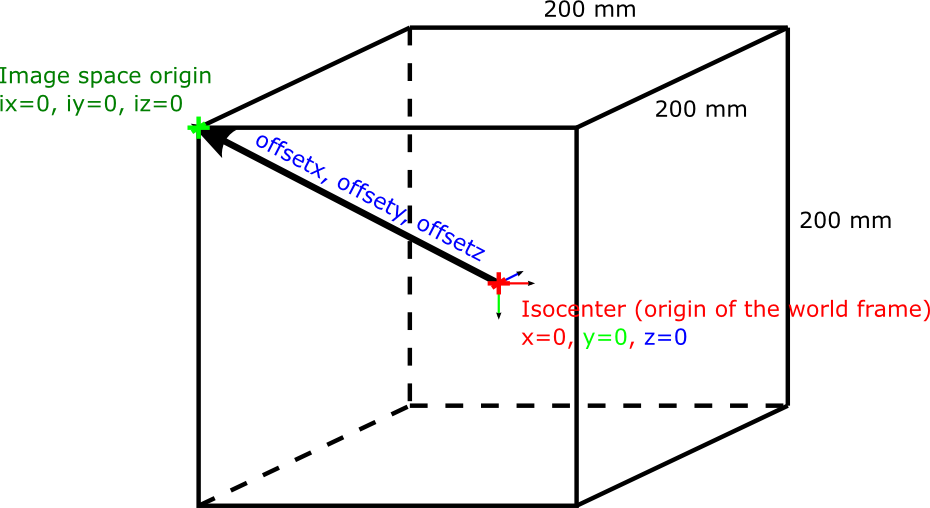
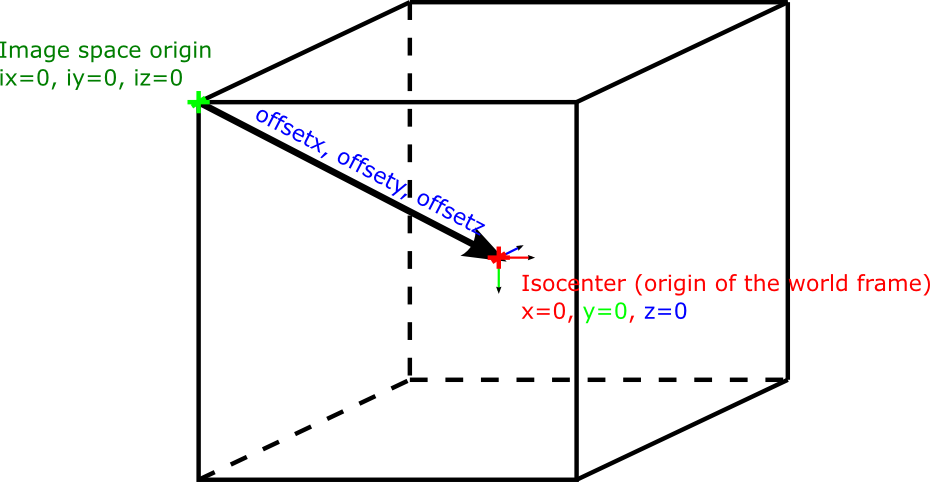
Update doc, minor changes

diff --git a/doc/source/phantoms.rst b/doc/source/phantoms.rst
@@ -3,7 +3,7 @@
 Phantoms
 ========
 
-Two main phantoms are used in GGEMS. Each one handle different particle navigation dedicated to a specific application. For instance a phantom *VoxPhanImgNav* is used for CT imaging while a phantom *VoxPhanDosiNav* is used in radiotherapy application. 
+Two main phantoms are used in GGEMS. Each one handle different particle navigation dedicated to a specific application. For instance a phantom *VoxPhanImgNav* is used for CT imaging while a phantom *VoxPhanDosiNav* is used for radiotherapy application. 
 
 +----------------+---------------------+---------------------+---------------------+-----------------+
 | Phantom name   | Type of volume      | Particle navigator  | Specificity         | Applications    |
@@ -26,7 +26,7 @@ This class handle particle navigation within a voxelized volume. This phantom co
 
 .. c:function:: void load_phantom_from_mhd ( std::string filename, std::string range_mat_name )
     
-    Load a voxelized phantom from a MHD format image (``TODO: MHD spec``). This file can content Hounsfield units (HU) or simple material ID. To convert material ID or HU into material a range material file is required. This file contains for each range of value (ID or HU) the material to be associated. Material name must be defined into the material database (``TODO: see GGEMS``).
+    Load a voxelized phantom from a MHD format image ( :ref:`mhd-label` ). This file can content Hounsfield units (HU) or simple material ID. To convert material ID or HU into material a range material file is required. This file contains for each range of value (ID or HU) the material to be associated. Material name must be defined into the material database (``TODO: see GGEMS``).
 
     .. c:var:: filename  
         
@@ -61,8 +61,143 @@ Example of material database contains ::
 
 -----
 
+Example
+^^^^^^^
+
+.. code-block:: cpp
+    :linenos:
+
+    VoxPhanImgNav *aPhantom = new VoxPhanImgNav;
+    aPhantom->load_phantom_from_mhd( "data/patient.mhd", "data/HU2mat.dat" );
+    aPhantom->load_materials( "data/materials.dat" );
+
+
+
+VoxPhanDosiNav
+--------------
+
+.. sectionauthor:: Julien Bert
+.. codeauthor:: Julien Bert
+
+This class handle particle navigation within a voxelized volume. This phantom consider photon and electron particles and the dose within the volume is recorded. This phantom and the associated particle navigator is mainly used for dosimetry application (photon or electron beam).
+
+------------
+
+.. c:function:: void load_phantom_from_mhd ( std::string filename, std::string range_mat_name )
+    
+    Load a voxelized phantom from a MHD format image ( :ref:`mhd-label` ). This file can content Hounsfield units (HU) or simple material ID. To convert material ID or HU into material a range material file is required. This file contains for each range of value (ID or HU) the material to be associated. Material name must be defined into the material database (``TODO: see GGEMS``).
+
+    .. c:var:: filename  
+        
+        Filename of the mhd data file.
+
+    .. c:var:: range_mat_name 
+    
+        Filename of the range material data file. 
+
+Example of range material contains::
+
+    0   100 Water
+    101 200 Air
+    201 220 RibBone    
+
+-----
+
+.. c:function:: void set_materials( std::string filename )
+
+    Load the material database used by the range material data file and the phantom.
+
+    .. c:var:: filename
+
+        Filename of the material database. 
+
+Example of material database contains ::
+
+    # Water    
+    Water: d=1.00 g/cm3; n=2;
+        +el: name=Hydrogen  ; f=0.111
+        +el: name=Oxygen    ; f=0.889
+
+-----
+
+.. c:function:: void set_doxel_size( f32 sizex, f32 sizey, f32 sizez )
+
+    Set the voxel size of the dose map. If no values are specified doxel size is the same
+        to the phantom voxel size.
+
+    .. c:var:: sizex
+
+        Size (in mm) of the doxel along x-axis dimension. 
+
+    .. c:var:: sizey
+
+        Size (in mm) of the doxel along y-axis dimension. 
+
+    .. c:var:: sizez
+
+        Size (in mm) of the doxel along z-axis dimension.         
+
+-----
+
+.. c:function:: void set_volume_of_interest( f32 xmin, f32 xmax, f32 ymin, f32 ymax, f32 zmin, f32 zmax )
+
+    Set a volume of interest (VOI) to record the dose within the phantom. This volume is defined according the phantom offset i.e. center of the world frame. If no values are specified the volume of interest is defined to consider the whole phantom volume. 
+
+    .. c:var:: xmin
+
+        Min position of VOI boundaries along x-axis of the volume of interest. 
+
+    .. c:var:: xmax
+
+        Max position of VOI boundaries along x-axis of the volume of interest. 
+
+    .. c:var:: ymin
+
+        Min position of VOI boundaries along y-axis of the volume of interest. 
+
+    .. c:var:: ymax
+
+        Max position of VOI boundaries along y-axis of the volume of interest. 
+
+    .. c:var:: zmin
+
+        Min position of VOI boundaries along z-axis of the volume of interest. 
+
+    .. c:var:: zmax
+
+        Max position of VOI boundaries along z-axis of the volume of interest.                                         
+
 .. note::
-    Version: beta - Work for authors.
+    Version: alpha - Never test
+
+-----
+
+.. c:function:: void calculate_dose_to_water()
+
+    After the simulation, energies deposited within the volume are converted in dose using this function. The dose is caculated using water density.
+
+-----
+
+.. c:function:: void calculate_dose_to_phantom()
+
+    After the simulation, energies deposited within the volume are converted in dose using this function. The dose is caculated using density of each voxel phantom.
+
+-----
+
+.. c:function:: void write ( std::string filename = "dosimetry.mhd" )
+
+    After dose calculation dosemap can be exported in MetaImage format ( :ref:`mhd-label` ). This function write four files related to the dosemap:
+
+    * xxx-Dose: final dose map in Gray
+    * xxx-Edep: Deposited energy within the phantom in MeV
+    * xxx-Hit: Number of hits within the phantom
+    * xxx-Uncertainty: Dose uncertainty in %
+
+    .. c:var:: filename
+
+        Base filename used to export data.        
+
+-----
 
 Example
 ^^^^^^^
@@ -73,6 +208,7 @@ Example
     VoxPhanImgNav *aPhantom = new VoxPhanImgNav;
     aPhantom->load_phantom_from_mhd( "data/patient.mhd", "data/HU2mat.dat" );
     aPhantom->load_materials( "data/materials.dat" );
+
 
 
 

diff --git a/doc/source/generality.rst b/doc/source/generality.rst
@@ -16,6 +16,8 @@ In GGEMS the reference frame of the simulation is defined by the isocenter. Ever
 
 -----
 
+.. _mhd-label:
+
 MHD file format
 ---------------
 
@@ -25,13 +27,13 @@ GGEMS uses MHD file format to load phantom and CT image. This file format is com
     NDims = 3
     BinaryData = True
     CompressedData = False
-    Offset = -256.000000 -126.000000 -92.000000
+    Offset = 256.000000 126.000000 92.000000
     ElementSpacing = 4.000000 4.000000 4.000000
     DimSize = 128 63 46
     ElementType = MET_FLOAT
     ElementDataFile = phantom_pet_hu.raw
 
-The offset value is the vector that translate the isocenter (center of the frame) to the reference frame of the voxelized volume i.e. top left corner (voxel index x=0, y=0 and z=0), as shown in this figure:
+GGEMS is able to import data with ElementType defined as: ``MET_FLOAT, MET_UINT, MET_USHORT, MET_UCHAR``. The offset value is the point position that defined the center of the frame. This offset, is then used to translate the phantom accordingly, as shown to the figure:
 
 .. image:: images/image_offset.png
     :scale: 75%
@@ -39,16 +41,16 @@ The offset value is the vector that translate the isocenter (center of the frame
 
 For example to center your voxelized volume to the center of the world frame, the offset will be::
 
-    ox = - volume_size_x / 2.0
-    oy = - volume_size_y / 2.0
-    oz = - volume_size_z / 2.0
+    ox = volume_size_x / 2.0
+    oy = volume_size_y / 2.0
+    oz = volume_size_z / 2.0
 
 -----
 
 Simulation structure
 --------------------
 
-The structure of the Monte Carlo simulation is based on three main components: a source, a phantom and a detector. According the application targeted a composition of these components will be used (see figure below). For instance to compute a blank image in CT imaging only a source and a detector will be used (no phantom). In PET and CT imaging a source, a phantom and a detecvtor will be defined. In particle therapy application only a source and a phantom are used. In GGEMS simulation only the source component is mandatory, phantom and detecvtor are optionals.
+The structure of the Monte Carlo simulation is based on three main components: a source, a phantom and a detector. According the application targeted a composition of these components will be used (see figure below). For instance to compute a blank image in CT imaging only a source and a detector will be used (no phantom). In PET and CT imaging a source, a phantom and a detecvtor will be defined. In particle therapy application only a source and a phantom are used. In GGEMS simulation only the source component is mandatory, phantom and detector are optionals.
 
 .. image:: images/simu_struct.png
     :scale: 40%
@@ -252,6 +254,46 @@ Units recognized and used by GGEMS:
 * perCent
 * perThousand
 * perMillion
+
+-----
+
+Data type
+---------
+
+GGEMS used specific data type:
+
+* **f32** real number with simple precision
+* **f32xy** vector (x, y) of f32
+* **f32xyz** vector (x, y, z) of f32
+* **f32xyzw** vector (x, y, z, w) of f32
+|
+* **f64** real number with double precision
+* **f64xy** vector (x, y) of f64
+* **f64xyz** vector (x, y, z) of f64
+* **f64xyzw** vector (x, y, z, w) of f64
+|
+* **i32** signed integer number (32 bits)
+* **i32xy** vector (x, y) of i32
+* **i32xyz** vector (x, y, z) of i32
+* **i32xyzw** vector (x, y, z, w) of i32
+|
+* **ui32** unsigned integer number (32 bits)
+* **ui32xy** vector (x, y) of ui32
+* **ui32xyz** vector (x, y, z) of ui32
+* **ui32xyzw** vector (x, y, z, w) of ui32
+|
+* **ui16** unsigned integer number (16 bits)
+* **ui16xy** vector (x, y) of ui16
+* **ui16xyz** vector (x, y, z) of ui16
+* **ui16xyzw** vector (x, y, z, w) of ui16
+|
+* **i8** signed integer number (8 bits)
+* **i16** signed integer number (16 bits)
+* **ui8** unsigned integer number (8 bits)
+* **ui64** unsigned integer number (64 bits)
+|
+* **f32matrix33** matrix (a, b, c, d, e, f, g, h, i) of f32
+* **f64matrix33** matrix (a, b, c, d, e, f, g, h, i) of f64
 
 -----
 

diff --git a/doc/source/installation.rst b/doc/source/installation.rst
@@ -1,11 +1,61 @@
-.. GGEMS documentation: Installation
+.. GGEMS documentation: Compilation
 
-.. highlight:: c
-    :linenothreshold: 1
+.. sectionauthor:: Julien Bert
+.. codeauthor:: Julien Bert
+
+
+Compilation
+===========
+
+Requirement
+-----------
+
+Software using GGEMS library requires minimum version of gcc and nvcc to be compiled:
+
+GCC
+^^^
+
+GGEMS library requires a **gcc** version **>= 4.8.4**.
+
+NVCC
+^^^^
+
+GGEMS library requires a **nvcc** version **>= 7.0.27**.
+
+Compute capability
+^^^^^^^^^^^^^^^^^^
+
+Your NVIDIA GPU device must have a compute capability **>= 3.0**.
+
+Only Kepler and newest NVIDIA architecture are compatible with GGEMS. Check your architecture to `Wikipedia <http://en.wikipedia.org.wiki/CUDA>`_.
 
 Installation
-============ 
+------------
 
-.. toctree::
-   :maxdepth: 2
+Since GGEMS is a static library, installation procedure is not really required. The main directory that contains GGEMS has to be placed somewhere in your home directory in order to have the right to access.
 
+Compilation
+-----------
+
+Your source code must include the main GGEMS file:
+
+.. code-block:: cpp
+    :linenos:
+
+    #include <ggems.cuh>
+
+Then in a linux terminal, you need to source GGEMS path in order to tell your compilation where is GGEMS files::
+
+    source [MyGGEMSInstallDirectoryPath]/bin/ggems.sh
+
+Finally, you can compile::
+
+    make
+
+Execution
+^^^^^^^^^
+
+Software that uses GGEMS library requires a license to be executed. License file can be freely distributed for academic institution.
+
+
+Last update: |today|  -  Release: |release|.
